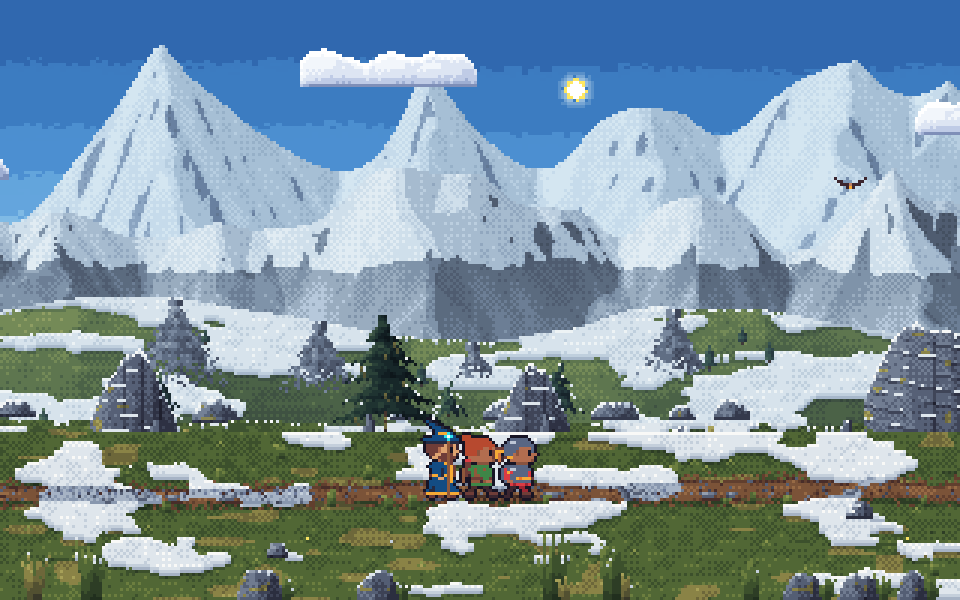
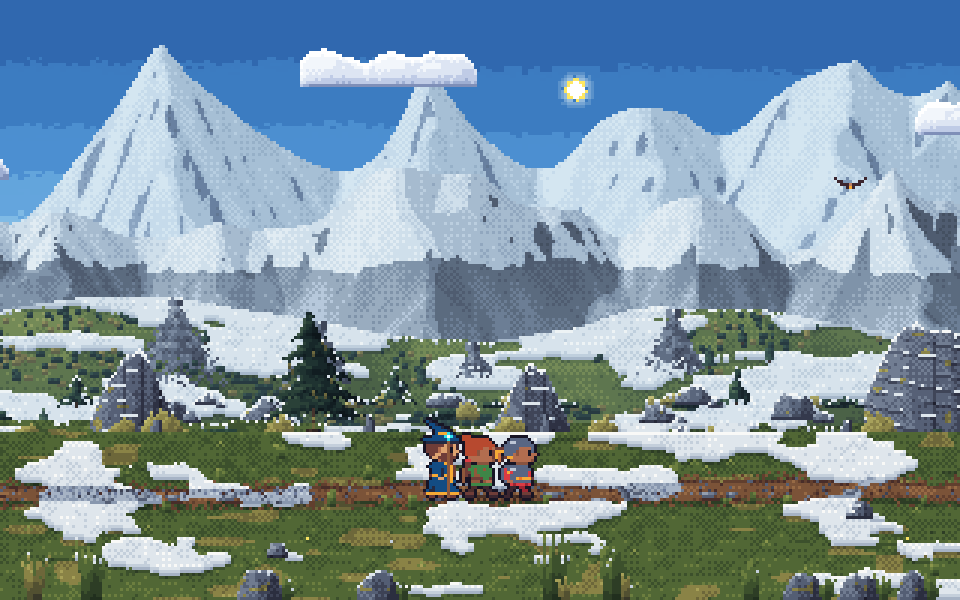
Sierra (b): profundidad por capas
Abetos en las umbrías bajas que dejan paso al pino negro con la altura,
piornos en cojín (en flor en los pastos medios) y enebro rastrero arriba;
medio en dos filas y a rodales con claros, matorral y pedregales; cerca con
árboles detrás de los peñascos y orilla de matorral; motas de matorral en las
colinas. Capturas en capturas/expediciones/visor-sierra.

Claude-Session: https://claude.ai/code/session_011Wau29cKmDzo4zqZ1ZXsfC

diff --git a/src/world/visor/capas-sierra.ts b/src/world/visor/capas-sierra.ts
@@ -233,6 +233,112 @@ export function canto(
 
 const grainOf = (x: number, y: number, s: number) => hash2(x >> 1, y >> 1, s);
 
+// ---------- Plantas de montaña ----------
+
+/**
+ * Un abeto: cono estrecho y prieto de pisos cortos y tiesos, con la punta en aguja; más oscuro y
+ * azulado que el pino negro (es el árbol de las umbrías bajas).
+ */
+export function abeto(t: Tonos, x: number, base: number, h: number, s: number, lift = 0): void {
+  const trunkH = Math.max(1, Math.round(h * 0.08));
+  const crown = h - trunkH;
+  const w = h * (0.16 + hash2(s, 1, 5) * 0.05);
+  const tierH = Math.max(2, Math.round(2 + h * 0.06));
+  for (let y = base - trunkH; y <= base; y++) {
+    t.set(x, y, M.corteza, 2, true);
+    if (h > 26) t.set(x + 1, y, M.corteza, 1, true);
+  }
+  for (let j = 0; j < crown; j++) {
+    const y = base - trunkH - j;
+    const u = j / crown;
+    const tv = ((j + (s & 1)) % tierH) / tierH;
+    let half = w * (1 - u) ** 0.95 * (0.7 + 0.3 * (1 - tv));
+    // Las puntas de cada piso, de un lado o del otro.
+    if (tv === 0 && hash2(j, s, 6) < 0.5) half += 0.8;
+    if (u > 0.88) half = Math.min(half, 0.4);
+    for (let dx = Math.floor(-half - 0.5); dx <= Math.ceil(half + 0.5); dx++) {
+      if (Math.abs(dx) > half + 0.35) continue;
+      const g = hash2((x + dx) >> 1, y >> 1, s + 7);
+      let v = 3 + lift - (dx / Math.max(1, half)) * 1.4 + (tv < 0.34 ? -0.8 : 0.2);
+      v += (g - 0.5) * 0.6;
+      if (j >= crown - 2) v += 0.5;
+      t.set(x + dx, y, M.viejo, step(v, x + dx, y), true);
+    }
+  }
+}
+
+/**
+ * Un piorno: cojín de ramitas prietas, redondo y achaparrado, con el borde de arriba en púas; en
+ * flor (amarillo) en los pastos de media altura.
+ */
+export function piorno(
+  t: Tonos,
+  x: number,
+  base: number,
+  w: number,
+  h: number,
+  s: number,
+  flor = 0,
+  lift = 0,
+): void {
+  for (let xx = Math.floor(x - w / 2); xx <= x + w / 2; xx++) {
+    const dx = (xx + 0.5 - x) / (w / 2);
+    const prof = 1 - dx * dx;
+    if (prof <= 0) continue;
+    const top = base - h * prof ** 0.5 * (0.8 + 0.35 * hash2(xx, s, 3));
+    for (let y = Math.round(top); y <= base; y++) {
+      const dy = (base - y) / h;
+      const g = hash2(xx >> 1, (y + (xx & 1)) >> 1, s + 2);
+      let v = 2.2 + lift - dx * 1.1 + dy * 1.4 + (g - 0.5) * 1.1;
+      if (y === Math.round(top)) v += 0.6;
+      if (y === base) v = 0.6;
+      if (
+        flor &&
+        y < base - 1 &&
+        dy > 0.4 &&
+        hash2(xx >> 1, y, s + 4) < flor * 0.24 * (1 - dx * 0.6)
+      )
+        t.set(xx, y, M.flor, dx < 0.2 ? 3 : 2.6, true);
+      else t.set(xx, y, M.musgo, step(v, xx, y), true);
+    }
+  }
+}
+
+/** Un enebro rastrero: mata ancha y baja, verde azulado y oscuro, con el lomo ondulado. */
+export function enebro(
+  t: Tonos,
+  x: number,
+  base: number,
+  w: number,
+  h: number,
+  s: number,
+  lift = 0,
+) {
+  w = Math.max(4, Math.round(w));
+  const x0 = Math.round(x - w / 2);
+  for (let i = 0; i < w; i++) {
+    const u = (i + 0.5) / w;
+    const lump = 0.7 + 0.3 * Math.sin(u * 9 + s) * hash2(i >> 2, s, 8);
+    const ph = Math.max(1, Math.round(h * (1 - Math.abs(2 * u - 1) ** 2.5) * lump));
+    for (let j = 0; j <= ph; j++) {
+      const y = base - j;
+      const g = hash2((x0 + i) >> 1, y >> 1, s + 9);
+      let v = 1.8 + lift - (u - 0.4) * 1.4 + (j / Math.max(1, ph)) * 1.2 + (g - 0.5) * 0.9;
+      if (j === ph) v += 0.6;
+      if (j === 0) v = 0.4;
+      t.set(x0 + i, y, M.pino, step(v, x0 + i, y), true);
+    }
+  }
+}
+
+/** Matorral a los pies de algo: piorno (con flor si toca) o enebro, según la altura. */
+function mata(t: Tonos, x: number, base: number, size: number, wild: number, s: number, lift = 0) {
+  const flor = 1 - smooth(0.35, 0.8, wild);
+  if (hash2(s, 51, 7) < lerp(0.75, 0.25, wild))
+    piorno(t, x, base, size, Math.round(size * 0.55), s, flor, lift);
+  else enebro(t, x, base, size * 1.5, Math.round(size * 0.3), s, lift);
+}
+
 // ---------- Cumbres ----------
 
 const lejos: Painter = (e, L, wild, seed) => {
@@ -362,6 +468,24 @@ const colinas: Painter = (e, L, wild, seed, o) => {
     seed + 124,
     L,
   );
+  // Matorral de lejos: motas de piorno (con flor) y de enebro, a rodales por la ladera.
+  const flor = 1 - smooth(0.35, 0.8, wild);
+  for (let i = 0; i < (L * H) / 14; i++) {
+    const x = Math.floor(hash2(i, 61, seed) * L);
+    const tp = tops[x]!;
+    const u = hash2(i, 62, seed);
+    const y = Math.round(tp + 2 + u * (H - tp - 2));
+    if (noise2(x / 32, y / 6, seed + 63, L / 32) < 0.5) continue;
+    const c = t.get(x, y) >> 4;
+    if (c !== M.hierba && c !== M.mies) continue;
+    const dark = hash2(i, 64, seed) < lerp(0.35, 0.75, wild);
+    const w = 1 + Math.round(u * 2 + hash2(i, 65, seed));
+    for (let k = 0; k < w; k++) {
+      t.set(x + k, y - 1, dark ? M.pino : M.musgo, k === 0 ? 3 : 2, true);
+      t.set(x + k, y, dark ? M.pino : M.musgo, 1, true);
+    }
+    if (!dark && hash2(i, 66, seed) < flor * 0.25) t.set(x, y - 1, M.flor, 3, true);
+  }
   // Muros de piedra seca que siguen la ladera (cerca de casa).
   if (farm > 0)
     for (let r = 0; r < 3; r++) {
@@ -405,7 +529,9 @@ const colinas: Painter = (e, L, wild, seed, o) => {
       if (y >= H + 2) continue;
       const clump = noise2(x / 22, r / 3, seed + 127, Math.round(L / 22));
       if (clump < 0.6 || hash2(id, 3, seed) > forest) continue;
-      pineSmall(t, x, y, Math.round(4 + hash2(id, 5, seed) * 4), M.pino, id, r / 8 - 0.3);
+      const fir = hash2(id, 6, seed) < 1 - smooth(0.1, 0.5, wild);
+      const h = Math.round(4 + hash2(id, 5, seed) * 4);
+      pineSmall(t, x, y, fir ? h + 1 : h, fir ? M.viejo : M.pino, id, r / 8 - (fir ? 0.1 : 0.3));
     }
   nevar(t, snow * 0.7, seed + 128);
   return [t, y0];
@@ -532,24 +658,68 @@ const medio: Painter = (e, L, wild, seed, o) => {
   const y0 = e.ground + 2 - H;
   const t = new Tonos(L, H);
   const base = H - 2;
-  const gap = Math.round(lerp(11, 22, wild));
-  const density = lerp(0.85, 0.3, smooth(0.2, 1, wild));
-  for (let i = 0; i < L / gap; i++) {
-    const x = Math.round(i * gap + hash2(i, 1, seed + 140) * gap * 0.8);
-    const b = base - Math.round(hash2(i, 3, seed + 140) * 3);
-    if (hash2(i, 2, seed + 140) < density) {
-      // El pino negro: más bajo y más torcido cuanto más arriba.
-      const h = Math.round(lerp(22, 10, wild) + hash2(i, 8, seed + 140) * lerp(12, 6, wild));
-      pine(t, x, b, Math.min(H - 1, h), { seed: i * 13 + seed, old: wild * 0.6, fat: 1.1 });
-    } else if (hash2(i, 4, seed + 140) < 0.6) {
-      const w = 8 + Math.round(hash2(i, 5, seed) * 8);
-      canto(t, x, b + 1, w, Math.round(w * (0.35 + hash2(i, 6, seed) * 0.2)), i, {
-        lichen: 0.5,
-        snow: snowFar(wild, o),
-      });
+  const sn = snowFar(wild, o);
+  // Abajo, abetos en las umbrías; luego pino negro, cada vez más bajo y torcido; arriba, matorral.
+  const fir = 1 - smooth(0.12, 0.55, wild);
+  // Dos filas: la de atrás más arriba y más baja (más lejos) y la de delante.
+  for (const row of [0, 1]) {
+    const gap = Math.round(lerp(9, 17, wild) * (row ? 1.2 : 1));
+    const density = lerp(0.8, 0.28, smooth(0.2, 1, wild)) * (row ? 0.85 : 1);
+    const scale = row ? 1 : 0.72;
+    for (let i = 0; i < L / gap; i++) {
+      const id = i + row * 991;
+      const x = Math.round(i * gap + (row ? gap * 0.5 : 0) + hash2(id, 1, seed + 140) * gap * 0.7);
+      const b = row
+        ? base - Math.round(hash2(id, 3, seed + 140) * 2)
+        : base - 5 - Math.round(hash2(id, 3, seed + 140) * 2);
+      const lift = row ? 0 : 0.3;
+      // Rodales con claros de pasto entre medias (no una pared de árboles).
+      const stand = smooth(0.35, 0.65, fbm1(x, 64, L, seed + 142 + row, 2)) * 1.3;
+      if (hash2(id, 2, seed + 140) < density * stand) {
+        if (hash2(id, 9, seed + 140) < fir) {
+          const h = Math.round((lerp(20, 14, wild) + hash2(id, 8, seed + 140) * 12) * scale);
+          abeto(t, x, b, Math.min(H - 1, h), id + seed, lift);
+        } else {
+          // El pino negro: más bajo y más torcido cuanto más arriba.
+          const h = Math.round(
+            (lerp(22, 10, wild) + hash2(id, 8, seed + 140) * lerp(12, 6, wild)) * scale,
+          );
+          pine(t, x, b, Math.min(H - 1, h), { seed: id * 13 + seed, old: wild * 0.6, fat: 1.1 });
+        }
+        if (row && hash2(id, 10, seed + 140) < 0.45)
+          mata(t, x + 5, b + 1, 5 + Math.round(hash2(id, 11, seed) * 3), wild, id + seed);
+        continue;
+      }
+      const k = hash2(id, 4, seed + 140);
+      if (k < 0.45) {
+        // Un rodal de matorral: dos o tres matas juntas.
+        const n = 2 + Math.floor(hash2(id, 12, seed) * 2);
+        for (let j = 0; j < n; j++)
+          mata(
+            t,
+            x + j * 5,
+            b + 1 - (j & 1),
+            Math.round(lerp(5, 8, hash2(id, 13 + j, seed)) * scale + 1),
+            wild,
+            id * 3 + j + seed,
+            lift,
+          );
+      } else if (k < 0.75) {
+        // Un pedregal: un canto grande y otros pequeños al lado.
+        const w = Math.round((8 + hash2(id, 5, seed) * 8) * scale + 2);
+        canto(t, x, b + 1, w, Math.round(w * (0.35 + hash2(id, 6, seed) * 0.2)), id, {
+          lichen: 0.5,
+          snow: sn,
+          lift,
+        });
+        canto(t, x + w * 0.6, b + 2, Math.round(w * 0.45), Math.round(w * 0.2), id + 1, {
+          snow: sn,
+          lift,
+        });
+      }
     }
   }
-  nevar(t, snowFar(wild, o) * 0.8, seed + 141);
+  nevar(t, sn * 0.8, seed + 141);
   return [t, y0];
 };
 
@@ -575,6 +745,20 @@ const cerca: Painter = (e, L, wild, seed, o) => {
     }
   }
   neveros(t, y1, H - 1, () => Math.min(0.9, near * 1.2), seed + 153, L);
+  // Detrás, árboles sueltos: abetos abajo y pino negro torcido arriba.
+  const fir = 1 - smooth(0.12, 0.55, wild);
+  const gap = Math.round(lerp(34, 64, wild));
+  for (let i = 0; i < L / gap; i++) {
+    if (hash2(i, 2, seed + 160) > lerp(0.85, 0.35, wild)) continue;
+    const x = Math.round(i * gap + hash2(i, 1, seed + 160) * gap * 0.6);
+    const b = base - 2 + Math.round(hash2(i, 3, seed + 160) * 3);
+    if (hash2(i, 9, seed + 160) < fir)
+      abeto(t, x, b, Math.round(lerp(40, 30, wild) + hash2(i, 7, seed) * 16), i * 31 + seed);
+    else {
+      const h = Math.round(lerp(46, 22, wild) + hash2(i, 7, seed) * 18);
+      pine(t, x, b, h, { seed: i * 31 + seed, old: 0.3 + wild * 0.5, fat: 1.2 });
+    }
+  }
   // Peñascos de tanto en tanto (más a más altura), cada uno de su hechura.
   const rockSnow = clamp01(near * 1.3 + smooth(0.55, 1, wild) * 0.35);
   const big = Math.round(L / 128);
@@ -585,13 +769,18 @@ const cerca: Painter = (e, L, wild, seed, o) => {
     const h = Math.round(e.ground * lerp(0.28, 0.55, hash2(k, 4, seed + 154)));
     crag(t, x, base + 1, w, h, k * 7 + seed, { snow: rockSnow, lichen: 0.7 });
   }
-  // Pinos negros torcidos sueltos.
-  const gap = Math.round(lerp(40, 70, wild));
-  for (let i = 0; i < L / gap; i++) {
-    if (hash2(i, 2, seed + 160) > lerp(0.85, 0.35, wild)) continue;
-    const x = Math.round(i * gap + hash2(i, 1, seed + 160) * gap * 0.6);
-    const h = Math.round(lerp(46, 22, wild) + hash2(i, 7, seed) * 18);
-    pine(t, x, base, h, { seed: i * 31 + seed, old: 0.3 + wild * 0.5, fat: 1.2 });
+  // Matorral delante de los peñascos y los árboles: piornos y enebros a lo largo de la orilla.
+  for (let i = 0; i < L / 16; i++) {
+    if (hash2(i, 1, seed + 165) > lerp(0.55, 0.7, wild)) continue;
+    const x = Math.round(i * 16 + hash2(i, 2, seed + 165) * 10);
+    mata(
+      t,
+      x,
+      base + 1 + Math.round(hash2(i, 3, seed + 165) * 2),
+      8 + Math.round(hash2(i, 4, seed + 165) * 6),
+      wild,
+      i + seed,
+    );
   }
   // Hitos y piedras a la orilla del camino.
   for (let i = 0; i < L / 60; i++) {

diff --git a/docs/plan-arte.md b/docs/plan-arte.md
@@ -663,7 +663,14 @@ Herramientas: `tools/visor-hoja.ts` (hojas de lejanía, claro y nevando, móvil 
   con estratos, diaclasas, liquen y nieve en las repisas (`crag`); canchales en cono; delante
   festuca, cardos y cantos claros. Rendimiento igual que antes. Capturas en
   `capturas/expediciones/visor-sierra/` (`antes-*` es `main`).
-- [ ] (b), (c), (d).
+- [x] **(b) Profundidad por capas** (rama `claude/arte-visor-sierra-capas`): abetos (`abeto`, cono
+  prieto y oscuro de las umbrías bajas) que dejan paso al pino negro con la altura; piornos en
+  cojín, en flor en los pastos medios (`piorno`), y enebro rastrero arriba (`enebro`; los dos con
+  `mata`); medio en dos filas y a rodales con claros de pasto, con matorral a los pies y
+  pedregales; cerca, árboles sueltos detrás de los peñascos y una orilla de matorral delante;
+  colinas con motas de piorno y enebro a rodales (solo en lo verde) y abetos pequeños abajo.
+  Rendimiento igual. Capturas en `capturas/expediciones/visor-sierra/`.
+- [ ] (c) fauna y viento, (d) sucesos.
 
 ## Lo que ha dicho el usuario (para no repetir errores)
 
